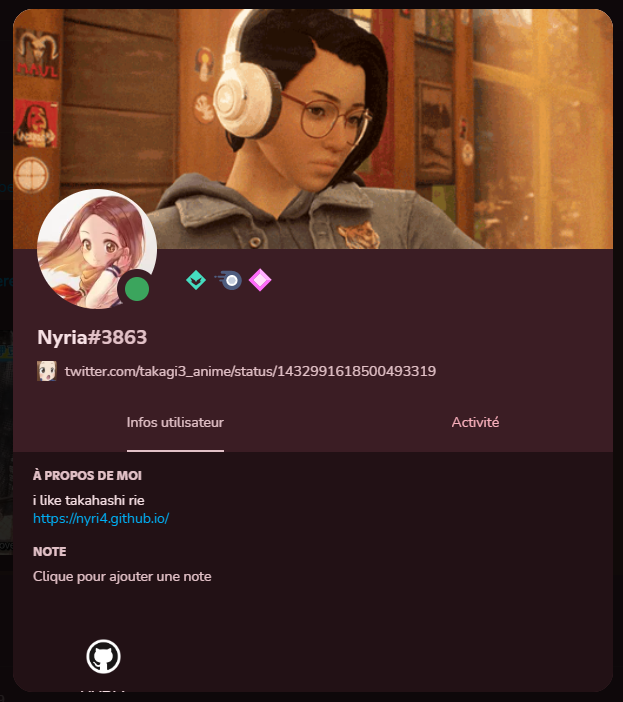
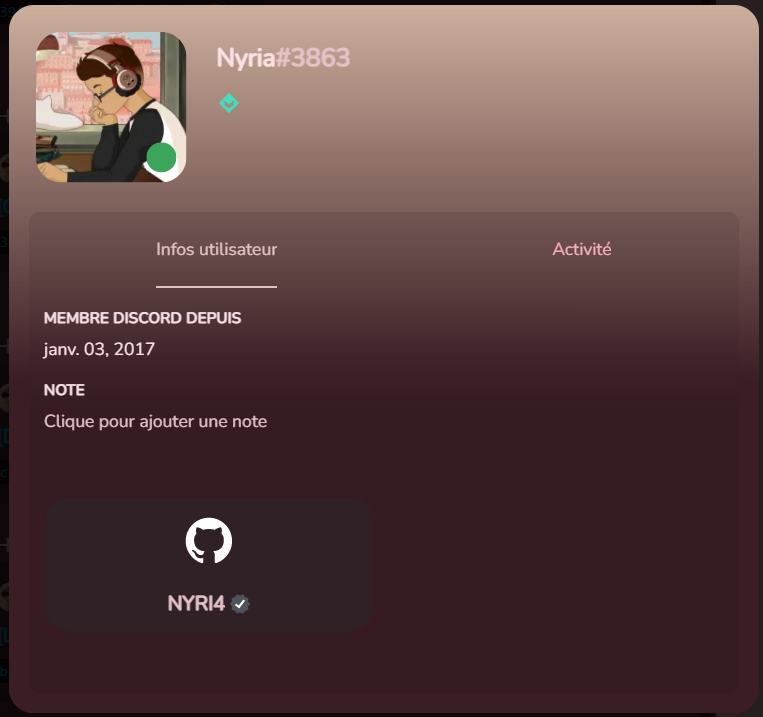
Bumping version + minor fixes

diff --git a/main.css b/main.css
@@ -774,6 +774,7 @@
 :root .userProfileInner-3F03PX .userPopoutOverlayBackground-dKOOda .usernameSection-2d814A {
   padding: 0;
 }
+:root .userProfileInner-3F03PX .userPopoutOverlayBackground-dKOOda .copiableNameTag-1BpMX8,
 :root .userProfileInner-3F03PX .userPopoutOverlayBackground-dKOOda .usernameSection-2d814A .userText-148fun > h1,
 :root .userProfileInner-3F03PX .userPopoutOverlayBackground-dKOOda .usernameSection-2d814A .userText-148fun > .userTagNoNickname-2MJ9HD {
   position: absolute;
@@ -788,11 +789,13 @@
   display: block;
   color: var(--header-secondary);
 }
+:root .userProfileInner-3F03PX .userPopoutOverlayBackground-dKOOda .copiableNameTag-1BpMX8 > span,
 :root .userProfileInner-3F03PX .userPopoutOverlayBackground-dKOOda .usernameSection-2d814A .userText-148fun > h1 > span,
 :root .userProfileInner-3F03PX .userPopoutOverlayBackground-dKOOda .usernameSection-2d814A .userText-148fun > .userTagNoNickname-2MJ9HD > span {
   word-break: unset;
   white-space: unset;
 }
+:root .userProfileInner-3F03PX .userPopoutOverlayBackground-dKOOda .copiableNameTag-1BpMX8 .discrimBase-KriZSj,
 :root .userProfileInner-3F03PX .userPopoutOverlayBackground-dKOOda .usernameSection-2d814A .userText-148fun > h1 .discrimBase-KriZSj,
 :root .userProfileInner-3F03PX .userPopoutOverlayBackground-dKOOda .usernameSection-2d814A .userText-148fun > .userTagNoNickname-2MJ9HD .discrimBase-KriZSj {
   color: white;
@@ -1723,114 +1726,12 @@
   -webkit-box-shadow: 0 2px 10px 0 rgba(0, 0, 0, 0.2), 0 0 0 1px rgba(56, 31, 31, 0.11);
           box-shadow: 0 2px 10px 0 rgba(0, 0, 0, 0.2), 0 0 0 1px rgba(56, 31, 31, 0.11);
 }
-:root .menu-1QACrS {
-  overflow: hidden;
+:root .accountProfilePopoutWrapper-3GskID {
+  left: -24px;
 }
-:root .scroller-1bVxF5 {
-  padding: 0;
-}
-:root .scroller-1bVxF5::-webkit-scrollbar, :root .scroller-1bVxF5 .separator-1So4YB {
-  display: none;
-}
-:root .scroller-1bVxF5 .item-1OdjEX {
-  padding: 10px 10px 10px 13px;
-  margin: 0;
-  -webkit-transition: 0.15s;
-  transition: 0.15s;
-  border-radius: 0;
-}
-:root .scroller-1bVxF5 .submenuContainer-3EVTeH .layer-2aCOJ3 {
-  margin: 0 -8px;
-}
-:root #account {
-  left: -6px;
-  bottom: -2px;
-  width: 321px;
-  background-color: var(--background-secondary);
-}
-:root #account .scroller-1bVxF5 {
-  overflow-y: auto !important;
-  padding: 0 !important;
-}
-:root #account .scroller-1bVxF5 .profileGroup-1yKk23 {
-  margin: 0;
-}
-:root #account .scroller-1bVxF5 .banner-1YaD3N {
-  height: 120px;
-}
-:root #account .scroller-1bVxF5 #account-avatar {
-  padding: 0;
-}
-:root #account .scroller-1bVxF5 #account-avatar .avatarWrapperNormal-ahVUaC {
-  top: 92px;
-  left: 20px;
-}
-:root #account .scroller-1bVxF5 #account-avatar .avatarWrapperNormal-ahVUaC .avatar-2Vndt_ {
-  border: none;
-  background: none;
-}
-:root #account .scroller-1bVxF5 #account-avatar .avatarWrapperNormal-ahVUaC .avatar-2Vndt_ foreignObject {
-  -webkit-mask: none;
-          mask: none;
-  border-radius: var(--border-radius) var(--border-radius) 0 0;
-  overflow: hidden;
-}
-:root #account .scroller-1bVxF5 #account-avatar .avatarWrapperNormal-ahVUaC .avatar-2Vndt_ .pointerEvents-9SZWKj {
-  display: none;
-}
-:root #account .scroller-1bVxF5 #account-avatar .avatarWrapperNormal-ahVUaC .avatarHint-k7pYop {
-  top: 0;
-  left: 0;
-  width: 100%;
-  height: 100%;
-}
-:root #account .scroller-1bVxF5 #account-avatar .avatarWrapperNormal-ahVUaC .avatarHint-k7pYop foreignObject {
-  -webkit-mask: none;
-          mask: none;
-  border-radius: var(--border-radius) var(--border-radius) 0 0;
-  overflow: hidden;
-}
-:root #account .scroller-1bVxF5 #account-info {
-  padding: 0;
-  background-color: var(--background-primary);
-}
-:root #account .scroller-1bVxF5 #account-info .headerTop-3GPUSF {
-  display: -webkit-box;
-  display: -ms-flexbox;
-  display: flex;
-  -webkit-box-orient: vertical;
-  -webkit-box-direction: reverse;
-      -ms-flex-direction: column-reverse;
-          flex-direction: column-reverse;
-  padding: 0;
-}
-:root #account .scroller-1bVxF5 #account-info .headerTop-3GPUSF .profileBadges-2pItdR {
-  position: static;
-  width: calc(100% - 20px);
-  height: 100%;
-  max-width: unset;
-  -webkit-box-align: center;
-      -ms-flex-align: center;
-          align-items: center;
-  -webkit-box-pack: end;
-      -ms-flex-pack: end;
-          justify-content: flex-end;
-  background-color: var(--background-secondary-alt);
-  padding: 10px;
-  margin: 0;
-}
-:root #account .scroller-1bVxF5 #account-info .headerTop-3GPUSF .profileBadges-2pItdR .profileBadge22-3GAYRy {
-  width: 30px;
-  height: 30px;
-}
-:root #account .scroller-1bVxF5 #account-info .headerTop-3GPUSF .headerText-1-WmDq {
-  padding: 12px 12px 12px 24px;
-}
-:root #account .scroller-1bVxF5 .popoutBanner-3cqRD9 {
-  width: 100%;
-}
-:root #account .description-3Cwkxk {
-  display: none;
+:root .accountProfilePopoutWrapper-3GskID .userPopoutOverlayBackground-dKOOda {
+  -webkit-backdrop-filter: unset;
+          backdrop-filter: unset;
 }
 :root .select-1Ia3hD,
 :root .popout-1KHNAq {

diff --git a/stuff/_other.scss b/stuff/_other.scss
@@ -33,86 +33,13 @@ button, input, textarea, .item-3XjbnG:not([class^=tabBarItem-]), .menu-1QACrS { 
   box-shadow: 0 2px 10px 0 rgba(0,0,0,.2), 0 0 0 1px rgba(56, 31, 31, 0.11);
 }
 
-// -- Better menus --
-.menu-1QACrS { overflow: hidden;}
+// User profile
+.accountProfilePopoutWrapper-3GskID {
+  left: -24px;
 
-.scroller-1bVxF5 {
-  padding: 0;
-
-  &::-webkit-scrollbar, .separator-1So4YB { display: none;}
-  .item-1OdjEX { padding: 10px 10px 10px 13px; margin: 0; transition: 0.15s; border-radius: 0;}
-  
-  // Submenu
-  .submenuContainer-3EVTeH .layer-2aCOJ3 { margin: 0 -8px;}
-}
-
-// Account
-#account { 
-  left: -6px; bottom: -2px;
-  width: 321px; background-color: var(--background-secondary);
-
-  .scroller-1bVxF5 {
-    overflow-y: auto !important; 
-    padding: 0 !important;
-    
-    .profileGroup-1yKk23 { margin: 0;}
-
-      .banner-1YaD3N { height: 120px;}
-
-      #account-avatar {
-        padding: 0;
-
-        .avatarWrapperNormal-ahVUaC {
-          top: 92px; left: 20px;
-  
-          .avatar-2Vndt_ { 
-              border: none; background: none;
-              
-              foreignObject { mask: none; border-radius: var(--border-radius) var(--border-radius) 0 0; overflow: hidden;}
-              .pointerEvents-9SZWKj { display: none;}
-          }
-          .avatarHint-k7pYop { 
-              top: 0; left: 0;
-              width: 100%; height: 100%;
-  
-              foreignObject { mask: none; border-radius: var(--border-radius) var(--border-radius) 0 0; overflow: hidden;}
-          }
-        }
-      }
-
-      #account-info {
-        padding: 0;
-        background-color: var(--background-primary);
-
-        .headerTop-3GPUSF {
-          display: flex;
-          flex-direction: column-reverse;
-          padding: 0;
-
-          // Badges
-          .profileBadges-2pItdR {
-            position: static;
-            width: calc(100% - 20px); height: 100%; 
-            max-width: unset;
-            align-items: center; justify-content: flex-end;
-            background-color: var(--background-secondary-alt);
-            padding: 10px; margin: 0;
-
-            .profileBadge22-3GAYRy { width: 30px; height: 30px;}
-          }
-
-          .headerText-1-WmDq { 
-            padding: 12px 12px 12px 24px;
-          }
-        }
-
-        
-      }
-
-      .popoutBanner-3cqRD9 { width: 100%;}
+  .userPopoutOverlayBackground-dKOOda {
+    backdrop-filter: unset;
   }
-
-  .description-3Cwkxk { display: none;}
 }
 
 // Custom status modal

diff --git a/stuff/_member-list.scss b/stuff/_member-list.scss
@@ -121,6 +121,7 @@
         // Username
         .usernameSection-2d814A { padding: 0;}
 
+        .copiableNameTag-1BpMX8, 
         .usernameSection-2d814A .userText-148fun > h1,
         .usernameSection-2d814A .userText-148fun > .userTagNoNickname-2MJ9HD {
             position: absolute;

diff --git a/lilypichu.theme.css b/lilypichu.theme.css
@@ -3,7 +3,7 @@
 * @author Nyria#3863
 * @description A theme based on @Melonturtle_ stream design
 * @invite rtBQX5D3bD
-* @version 1.2
+* @version 1.3
 * @donate https://ko-fi.com/nyria
 */
 @import url("https://nyri4.github.io/LilyPichu/main.css");

diff --git a/README.md b/README.md
@@ -4,7 +4,7 @@
 
 ## 📥 Installation
 
-### Powercord & Vizality
+### Replugged
 
 ```sh
 git clone https://github.com/NYRI4/LilyPichu
